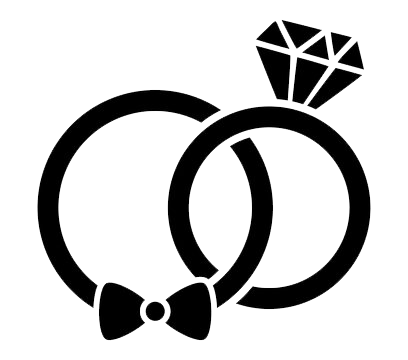
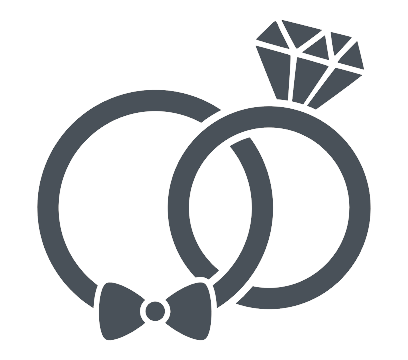
Cosas mas

Changed region(s): [[0.0882, 0.0611, 0.9118, 0.9472]]

diff --git a/src/components/Reservation/index.js b/src/components/Reservation/index.js
@@ -15,14 +15,16 @@ const Reservation = () => (
         <Title value="RSVP" style={{ marginTop: "15px", margin: "0 auto" }} />
         <p className={classes.sub}>Esperamos que puedas acompañarnos. ¡Confirmanos tu asistencia!</p>
         < ButtonLink {...buttonProps} style={buttonProps.style} />
-        <img src={imgGift} />
-        <Popup text="Nuestro CBU ;)">
-            <p><strong>Nombre del Titular:</strong> Nombre Apellido</p>
-            <p><strong>CBU:</strong> 12345678910</p>
-            <p><strong>DNI:</strong> 12345678</p>
-            <p><strong>ALIAS:</strong> conejo.saltarin</p>
-            <p>Banco BBVA</p>
-        </Popup>
+        <div style={{ paddingTop: "30px" }}>
+            <img src={imgGift} />
+            <Popup text="Nuestro CBU ;)">
+                <p><strong>Nombre del Titular:</strong> Nombre Apellido</p>
+                <p><strong>CBU:</strong> 12345678910</p>
+                <p><strong>DNI:</strong> 12345678</p>
+                <p><strong>ALIAS:</strong> conejo.saltarin</p>
+                <p>Banco BBVA</p>
+            </Popup>
+        </div>
     </div>
 )
 

diff --git a/src/components/Reservation/reservation.module.css b/src/components/Reservation/reservation.module.css
@@ -3,7 +3,7 @@
     flex-direction: column;
     background-color: #edd9a9;
     margin: 0 auto;
-    padding:  20px 0;
+    padding:  30px 0;
 }
 
 img {
@@ -16,5 +16,6 @@ img {
 
 .sub {
     font-size: x-large;
+    color: #495159;
     padding: 20px;
 }

diff --git a/src/components/WeddingData/EventContainer/eventContainer.module.css b/src/components/WeddingData/EventContainer/eventContainer.module.css
@@ -15,4 +15,5 @@ h1 {
     font-size: medium;
     display: flex;
     flex-direction: column;
+    color: #495159;
 }

diff --git a/src/components/UI/Popup/popup.module.css b/src/components/UI/Popup/popup.module.css
@@ -52,6 +52,7 @@
     margin-top: 0;
     font-size: large;
     padding-top: 15px;
+    color: #495159;
 }
 
 

diff --git a/src/styles.css b/src/styles.css
@@ -1,6 +1,7 @@
 .App {
   font-family: sans-serif;
   text-align: center;
+  color: #495159;
 }
 
 * {
